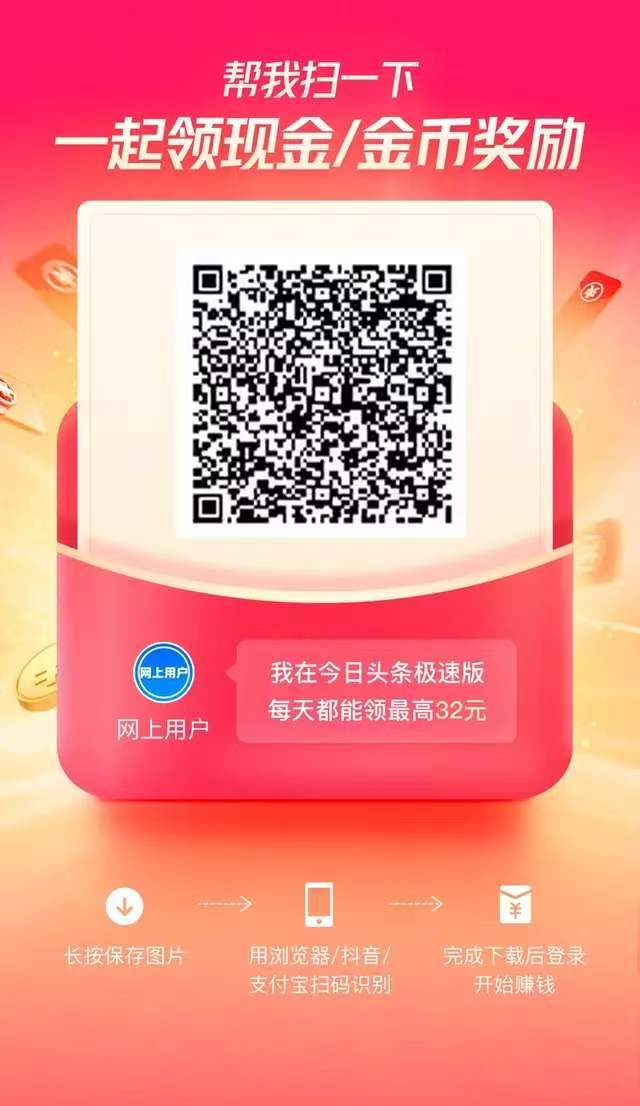
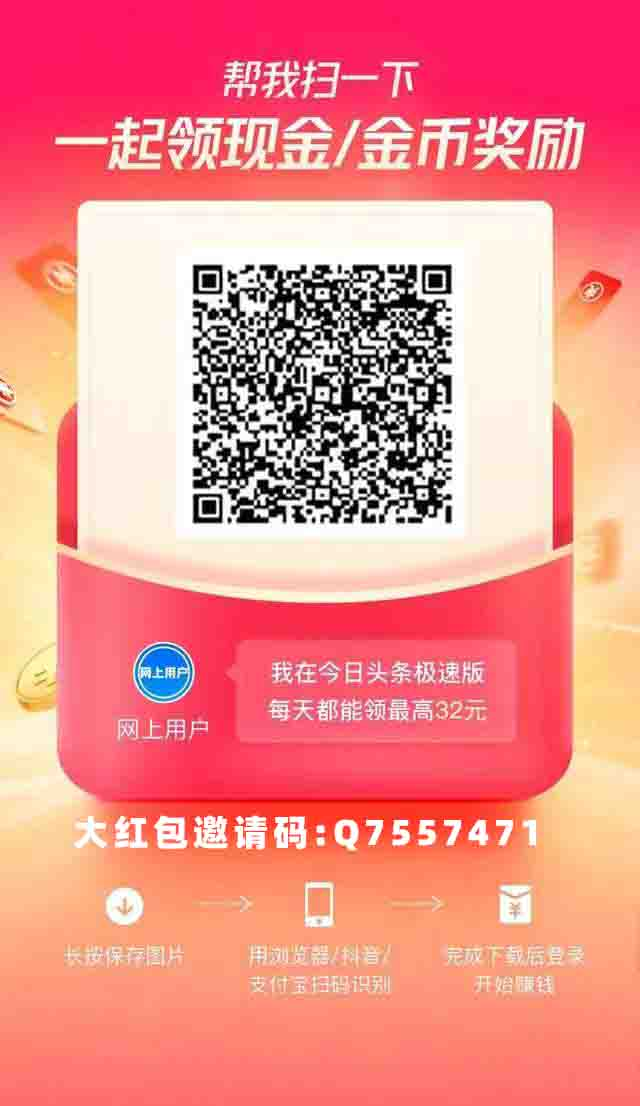
Add files via upload

diff --git a/a/js/yj.html b/a/js/yj.html
@@ -451,7 +451,11 @@
 <hr/>
 (广告)吊车严先生:广东省广州市增城专业大小吊车祥丰吊装大小吊车严先生<a href="tel:13826000931">13826000931</a>(微信同号)
 <hr/>
-(广告)广告位招租
+(广告)<br/>
+<a href="https://coin.toutiao12.com/score_task/page/landing/invite/?user_id=ENC-UID-MS4wLjABAAAABwdqJYxX865K0F8DR6IDpFRPMNGIlmWcFdmg49hVuFs&task_id=102&aid=35&enter_from=largefission&update_version_code=95200&invite_type=largefission&invite_code=Q7557471" download target="_blank">
+<img src="../../tu/jpg1/1.jpg" alt="网上用户的图片" width="300" height="" title="" align="" />
+</a>
+
 <hr/>
 (广告)广告位招租
 <hr/>
